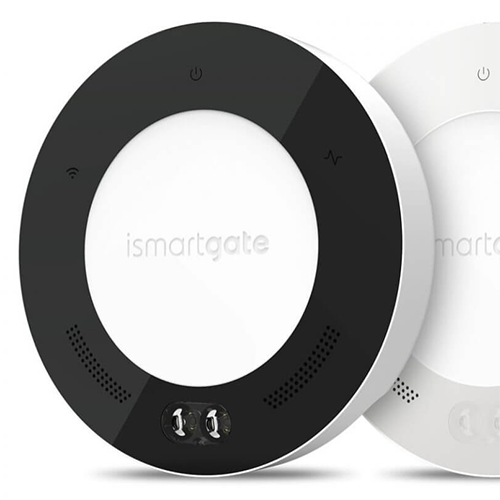
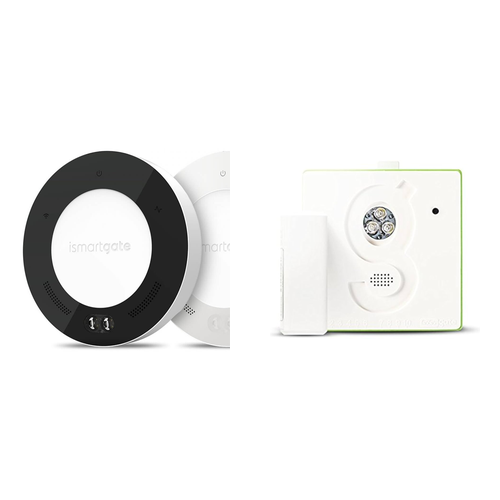
v1.0.4: accurate travel status + GogoGate2 as a first-class device
Door status during travel (fixes a community report of early/late/stuck
status):
- Poll through the ismartgate library's transitional status
  (_get_door_statuses) instead of the raw tilt sensor. A single tilt
  sensor only reports terminal opened/closed and lags during travel; the
  library tracks the transition from our own commands and resolves it when
  the sensor reaches the target (or after its ~55s timeout). Falls back to
  the raw status if unavailable. Also benefits GogoGate2 (same path).
- Poll fast (3s) while any door is mid-travel, and wake the poll loop
  immediately after a command via an asyncio.Event, so the tile shows
  opening/closing within ~1s and reaches the final state within a few
  seconds instead of a full poll interval.
- Removed the home-grown optimistic transition; opened/closed triggers and
  garagedoor_closed now move ONLY on terminal states, keyed off the last
  terminal status rather than garagedoor_closed (which a command pre-sets,
  so it can't be trusted as the 'before' value). No more mid-travel blink,
  and the triggers fire at the real open/close moment.

GogoGate2 promoted to a first-class supported device:
- Hub driver renamed "iSmartGate Hub" -> "iSmartGate / GogoGate2 Hub"
  (driver id unchanged, so no migration for existing users).
- Hub product image replaced with a side-by-side iSmartGate + GogoGate2
  shot on a white background.

Validates --level publish.

diff --git a/drivers/garage-gateway/device.py b/drivers/garage-gateway/device.py
@@ -39,6 +39,11 @@ DEFAULT_POLL_CLOSED = 60
 MIN_POLL_SECONDS    = 5
 MAX_POLL_SECONDS    = 600
 
+# While a door is mid-travel (opening/closing) we poll fast so the
+# transitional status resolves to the real terminal state within a few
+# seconds instead of after a full open/closed interval.
+TRANSITION_POLL_SECONDS = 3
+
 
 class GatewayDevice(device.Device):
 
@@ -59,6 +64,11 @@ class GatewayDevice(device.Device):
         self._latest_doors: list = []
         self._poll_task: asyncio.Task | None = None
         self._gateway_id_cache: str = self.get_data()["id"]
+        # Set by a command to wake the poll loop for an immediate refresh,
+        # so the door starts showing opening/closing within ~1s of a tap.
+        self._poll_wake: asyncio.Event = asyncio.Event()
+        # True while any door reports a transitional (opening/closing) status.
+        self._any_transitional: bool = False
 
         # Logged once so the iSmartGate host isn't repeated on every poll.
         self.log(
@@ -98,6 +108,7 @@ class GatewayDevice(device.Device):
                 "Hub credentials are rejected — re-pair the hub before sending commands."
             )
         await self._api.async_open_door(int(door_id))
+        self._poll_wake.set()
 
     async def close_door(self, door_id: int) -> None:
         if self._credentials_rejected:
@@ -105,6 +116,7 @@ class GatewayDevice(device.Device):
                 "Hub credentials are rejected — re-pair the hub before sending commands."
             )
         await self._api.async_close_door(int(door_id))
+        self._poll_wake.set()
 
     async def activate_door(self, door_id: int) -> None:
         """Send a single raw pulse to an opening.
@@ -120,6 +132,7 @@ class GatewayDevice(device.Device):
                 "Hub credentials are rejected — re-pair the hub before sending commands."
             )
         await self._api.async_activate(int(door_id))
+        self._poll_wake.set()
 
     # ------------------------------------------------------------------
     # Polling
@@ -140,13 +153,23 @@ class GatewayDevice(device.Device):
 
         while True:
             try:
-                await asyncio.sleep(self._next_interval_seconds())
+                await self._wait_next_poll()
                 await self._poll_once()
             except asyncio.CancelledError:
                 self.log("Poll loop cancelled")
                 return
             except Exception as exc:
                 self.log(f"Unhandled poll-loop error: {type(exc).__name__}: {exc}")
+
+    async def _wait_next_poll(self) -> None:
+        """Sleep until the next poll, waking early if a command was sent."""
+        interval = self._next_interval_seconds()
+        try:
+            await asyncio.wait_for(self._poll_wake.wait(), timeout=interval)
+        except asyncio.TimeoutError:
+            pass
+        finally:
+            self._poll_wake.clear()
 
     # ------------------------------------------------------------------
     # Background-task safety net
@@ -220,11 +243,32 @@ class GatewayDevice(device.Device):
         doors = list(get_configured_doors(info))
         self._latest_doors = doors
 
-        # Write per-door snapshots into shared app state and notify each door device.
+        # Merge the ismartgate library's transitional status (opening/closing)
+        # over the raw tilt-sensor reading. A single tilt sensor only reports
+        # terminal opened/closed and lags during travel (it still reads the
+        # pre-travel state while the door moves). The library tracks the
+        # transition — set by our own open/close commands — and resolves it to
+        # opened/closed once the sensor reaches the target (or after its ~55s
+        # timeout). Falls back to the raw status if the call is unavailable.
+        try:
+            statuses = self._api._get_door_statuses(info)
+        except Exception as exc:
+            self.log(f"Poll: transitional status unavailable ({type(exc).__name__}); using raw")
+            statuses = {}
+
         gw_id = self._gateway_id_cache
         state = self.homey.app.door_state
+        any_transitional = False
         for door in doors:
-            state[(gw_id, int(door.door_id))] = _door_snapshot(door)
+            snap = _door_snapshot(door)
+            st = statuses.get(int(door.door_id))
+            if st is not None:
+                status_val = getattr(st, "value", str(st))
+                snap["status"] = status_val
+                if status_val in ("opening", "closing"):
+                    any_transitional = True
+            state[(gw_id, int(door.door_id))] = snap
+        self._any_transitional = any_transitional
 
         await self._notify_door_devices()
 
@@ -243,6 +287,11 @@ class GatewayDevice(device.Device):
 
         if self._consecutive_errors >= 2:
             return NETWORK_BACKOFF_SECONDS
+
+        # Poll fast while a door is mid-travel so opening/closing resolves to
+        # the real terminal state (and flows fire) within a few seconds.
+        if self._any_transitional:
+            return TRANSITION_POLL_SECONDS
 
         settings = self.get_settings()
         any_open = any(d.status in OPEN_DOOR_STATUSES for d in self._latest_doors)

diff --git a/opening_device.py b/opening_device.py
@@ -18,13 +18,19 @@ snapshot into app.door_state[(gateway_id, door_id)] and calls
 refresh_from_state() on each paired opening, which updates capabilities
 and fires flow triggers.
 
-Behaviour layered on top of the original door logic:
+Behaviour:
+  - door_status / opening / closing: a single tilt sensor only reports
+    terminal opened/closed and lags during travel, so the hub layer feeds
+    us the ismartgate library's transitional status (opening/closing) —
+    tracked from our open/close commands and resolved to opened/closed
+    when the sensor reaches the target. We just render whatever status the
+    snapshot carries.
+  - garagedoor_closed + opened/closed triggers move ONLY on terminal
+    states, keyed off the last terminal status (not off garagedoor_closed,
+    which a command pre-sets), so the tile never blinks mid-travel and the
+    triggers fire at the real open/close moment.
   - status_changed trigger: fires whenever door_status changes, carrying
     the new status as a token.
-  - opening / closing triggers: the hub's info endpoint only reports
-    terminal opened/closed, so these fire optimistically when the app
-    sends an open/close command (and the tile shows the transitional
-    state until the next poll resolves it).
   - alarm_battery: set from the wireless sensor voltage so Homey's
     built-in low-battery flow card has something to read.
 """
@@ -88,6 +94,10 @@ class OpeningDeviceBase(device.Device):
         # Last UI status we reported; gates the status_changed trigger and
         # is seeded (not fired) on the first observation after pair/restart.
         self._last_ui_status: str | None = None
+        # Last terminal status (opened/closed) we saw. Drives the
+        # opened/closed triggers independently of garagedoor_closed, which a
+        # command pre-sets and so can't be trusted as the 'before' value.
+        self._last_terminal: str | None = None
 
         # Cache device trigger cards once (skip ids the subclass disabled).
         self._trig: dict = {}
@@ -181,12 +191,12 @@ class OpeningDeviceBase(device.Device):
         if status == "undefined":
             return
 
-        is_closed = (status == "closed")
-        was_closed = self.get_capability_value("garagedoor_closed")
-
-        # For transitional states (opening / closing), don't yet change
-        # garagedoor_closed — we only update on terminal open/closed.
+        # garagedoor_closed and the opened/closed triggers move ONLY on
+        # terminal states. During opening/closing we hold them, so a
+        # mid-travel sensor reading (which still shows the pre-travel state)
+        # can't blink the tile or fire a flow at the wrong moment.
         if status in ("opened", "closed"):
+            is_closed = (status == "closed")
             try:
                 await self.set_capability_value("garagedoor_closed", is_closed)
                 await self.set_available()
@@ -194,9 +204,12 @@ class OpeningDeviceBase(device.Device):
                 self.log(f"refresh: garagedoor_closed error: {exc!r}")
                 return
 
-            # Trigger on transitions only — skip the very first update where
-            # was_closed is None.
-            if was_closed is not None and bool(was_closed) != bool(is_closed):
+            # Fire opened/closed on the sensor transition, tracked via the
+            # terminal status. Seed silently on the first terminal reading
+            # after pair/restart so we don't fire on startup.
+            prev_terminal = self._last_terminal
+            self._last_terminal = status
+            if prev_terminal is not None and status != prev_terminal:
                 if is_closed:
                     self._spawn(self._fire_closed())
                     self._cancel_left_open_timer()
@@ -297,33 +310,18 @@ class OpeningDeviceBase(device.Device):
         hub = self._require_hub()
         await hub.open_door(self._door_id)
         self.log(f"Open command sent (door {self._door_id})")
-        await self._optimistic_transition("opening")
 
     async def _cmd_close(self):
         self._check_debounce()
         hub = self._require_hub()
         await hub.close_door(self._door_id)
         self.log(f"Close command sent (door {self._door_id})")
-        await self._optimistic_transition("closing")
 
     async def _cmd_toggle(self):
         if self._is_closed():
             await self._cmd_open()
         else:
             await self._cmd_close()
-
-    async def _optimistic_transition(self, ui_status: str) -> None:
-        """Reflect a transitional state after a successful command.
-
-        The hub's info endpoint only ever reports terminal opened/closed,
-        so opening/closing are surfaced here, on the command we just sent.
-        The next poll resolves the tile to the real terminal state.
-        """
-        try:
-            await self.set_capability_value("door_status", ui_status)
-        except Exception:
-            pass
-        self._note_status(ui_status)
 
     def _check_debounce(self) -> None:
         """Raise if a command arrived too soon after the previous one.
